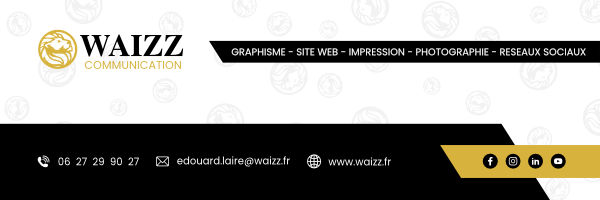
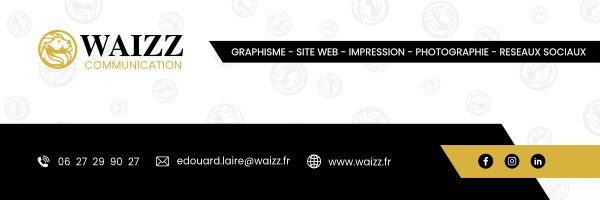
i finish this sign

Changed region(s): [[0.78, 0.75, 0.96, 0.84]]

diff --git a/test.html b/test.html
@@ -1,29 +1,154 @@
-<style>@import url('https://fonts.googleapis.com/css?family=Oxygen');</style>
-<table style="width:400px;  font-family: 'Oxygen', sans-serif; font-size: 12px">
+<style>
+  @import url("https://fonts.googleapis.com/css2?family=Poppins:ital,wght@0,100;0,200;0,300;0,400;0,500;0,600;0,700;0,800;0,900;1,100;1,200;1,300;1,400;1,500;1,600;1,700;1,800;1,900&display=swap");
+</style>
+<table
+  style="
+    position: relative;
+    z-index: 1;
+    width: 400px;
+    font-family: 'Poppins', sans-serif;
+    font-size: 12px;
+  "
+>
+  <img
+    style="position: absolute; z-index: 0"
+    src="./assets/signature-background.jpg"
+    alt=""
+  />
   <tbody>
     <tr>
-      <td style="width:110px; padding:0; display: flex; align-items: center; justify-content: space-between; flex-direction: row;">
-        <img src="assets/logo.svg" alt="logo">
-        <div style="position: relative; right: ; display: flex; align-items: center; margin-left: 2rem;">
-            <b style="text-decoration:none; margin-left: 1rem; color:black;">test</b>
-            <b style="text-decoration:none; margin-left: 1rem; color:black;">test</b>
-            <b style="text-decoration:none; margin-left: 1rem; color:black;">test</b>
-            <b style="text-decoration:none; margin-left: 1rem; color:black;">test</b>
-            <b style="text-decoration:none; margin-left: 1rem; color:black;">test</b>
+      <td
+        style="
+          position: relative;
+          top: 1.5rem;
+          left: 1rem;
+          width: 110px;
+          display: flex;
+          align-items: center;
+          justify-content: space-between;
+          flex-direction: row;
+        "
+      >
+        <img src="assets/logo.png" alt="logo" />
+        <div
+          style="
+            position: relative;
+            display: flex;
+            align-items: center;
+            justify-content: center;
+            margin-left: 4rem;
+            flex-direction: row;
+          "
+        >
+          <p style="color: #fff; font-size: 0.5rem">GRAPHISMES</p>
+          <p style="color: #fff; margin-left: 0.3rem">-</p>
+          <p style="margin-left: 0.3rem; color: #fff; font-size: 0.5rem">
+            SITE
+          </p>
+          <p style="margin-left: 0.3rem; color: #fff; font-size: 0.5rem">WEB</p>
+          <p style="color: #fff; margin-left: 0.3rem">-</p>
+          <p style="margin-left: 0.3rem; color: #fff; font-size: 0.5rem">
+            IMPRESSION
+          </p>
+          <p style="color: #fff; margin-left: 0.3rem">-</p>
+          <p style="margin-left: 0.3rem; color: #fff; font-size: 0.5rem">
+            PHOTOGRAPHIE
+          </p>
+          <p style="color: #fff; margin-left: 0.3rem">-</p>
+          <p style="margin-left: 0.3rem; color: #fff; font-size: 0.5rem">
+            RESEAUX
+          </p>
+          <p style="margin-left: 0.3rem; color: #fff; font-size: 0.5rem">
+            SOCIAUX
+          </p>
         </div>
-
       </td>
-      <td style=" margin-top: 3rem; display: flex; justify-content: space-between; ">
-        <div style="display:flex; justify-content:space-between ">
-          <a href="tel:0627299027" style="text-decoration: none; color: red; margin-left: 1rem; font-size: 0.6rem;">06 27 29 90 27</a>
-          <a href="mailto:contact@waizz.fr" style="text-decoration: none; color: red; margin-left: 1rem; font-size: 0.6rem;">CONTACT@WAIZZ.FR</a>
-          <a href="https://waizz.fr" style="text-decoration: none; color: red; margin-left: 1rem; font-size: 0.6rem;">www.waiz.fr</a>
-        </div>
-        
-        <a href="#"><img src="https://mleewise.com/assets/img/facebook32px.png" width=16px alt="Primary Theory Facebook Link" style="padding-left:14px;"></a>
-        <a href="#"><img src="https://mleewise.com/assets/img/linkedin32px.png" width=16px alt="Primary Theory LinkedIn Link"></a>
-        <a href="#"><img src="https://mleewise.com/assets/img/twitter32px.png" width=16px alt="Primary Theory Twitter Link"></a>
+      <td
+        style="
+          display: flex;
+          justify-content: space-between;
+          align-items: center;
+          position: relative;
+          width: 34rem;
+          top: 6.2rem;
+          margin-left: 1rem;
+        "
+      >
+        <div
+          style="
+            display: flex;
+            justify-content: space-between;
+            margin-left: 1rem;
+          "
+        >
+          <div style="display: flex; align-items: center">
+            <img style="margin-left: 0rem" src="./assets/phone.png" alt="" />
+            <a
+              href="tel:0627299027"
+              style="
+                text-decoration: none;
+                color: #fff;
+                margin-left: 0.3rem;
+                font-size: 0.6rem;
+              "
+              >06 27 29 90 27</a
+            >
+          </div>
+          <div style="display: flex; align-items: center">
+            <img style="margin-left: 1.2rem" src="./assets/mail.png" alt="" />
 
+            <a
+              href="mailto:contact@waizz.fr"
+              style="
+                text-decoration: none;
+                color: #fff;
+                margin-left: 0.3rem;
+
+                font-size: 0.6rem;
+              "
+              >CONTACT@WAIZZ.FR</a
+            >
+          </div>
+          <div style="display: flex; align-items: center">
+            <img style="margin-left: 1.2rem" src="./assets/web.png" alt="" />
+
+            <a
+              href="https://waizz.fr"
+              style="
+                text-decoration: none;
+                color: #fff;
+                margin-left: 0.3rem;
+
+                font-size: 0.6rem;
+              "
+              >www.waiz.fr</a
+            >
+          </div>
+        </div>
+
+        <div>
+          <a href="#"
+            ><img
+              style="margin-left: 0.5rem"
+              src="./assets/fb.png"
+              width="16px"
+              alt="Lien Facebook"
+          /></a>
+          <a href="#"
+            ><img
+              style="margin-left: 0.5rem"
+              src="./assets/inst.png"
+              width="16px"
+              alt="Lien Instagram"
+          /></a>
+          <a href="#"
+            ><img
+              style="margin-left: 0.5rem"
+              src="./assets/in.png"
+              width="16px"
+              alt="lien Linkedin"
+          /></a>
+        </div>
       </td>
     </tr>
   </tbody>
